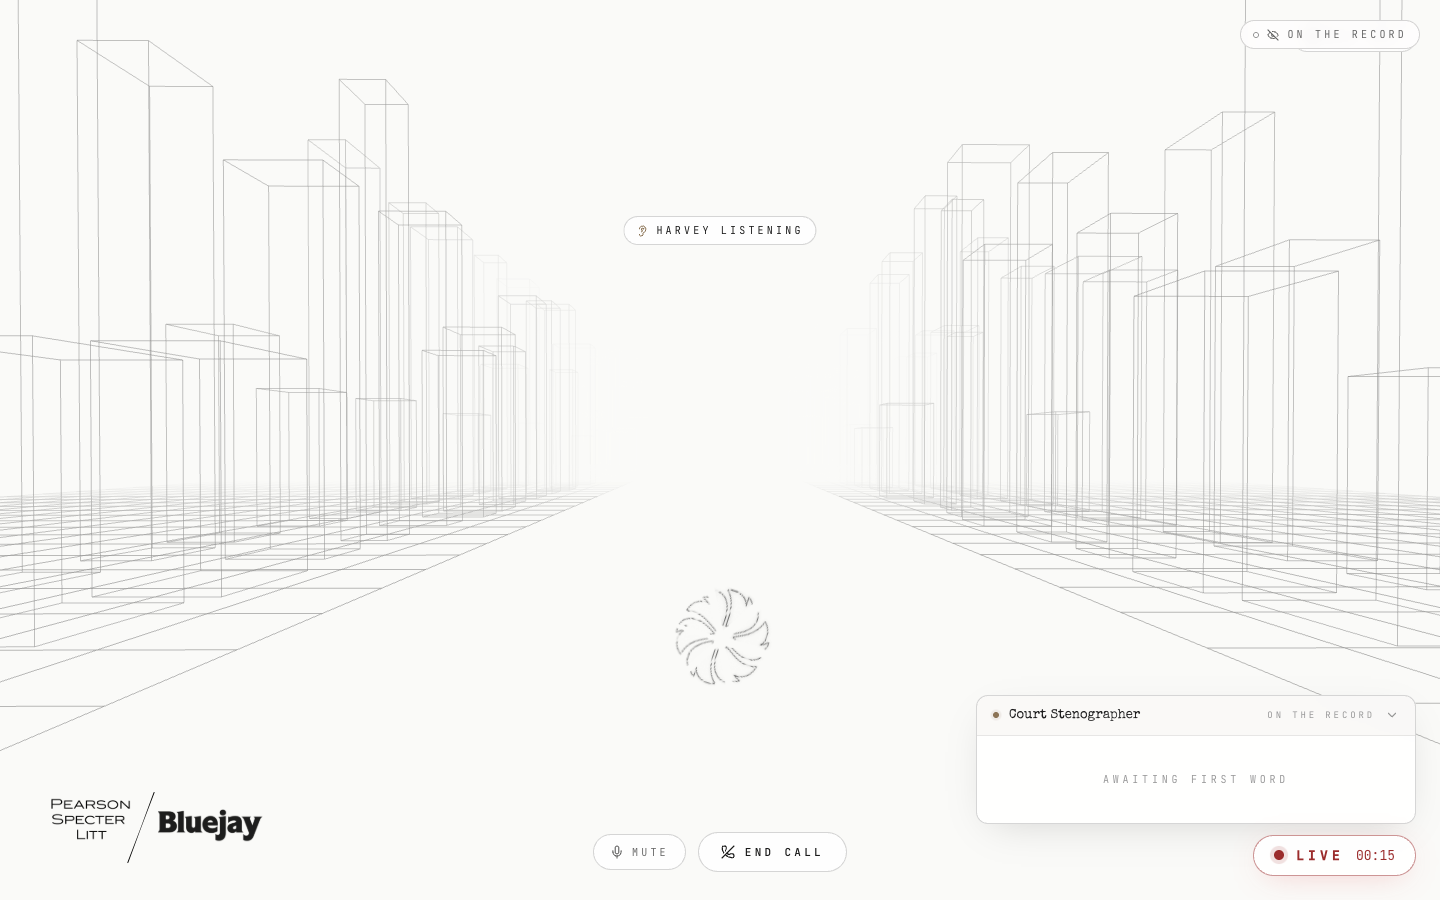
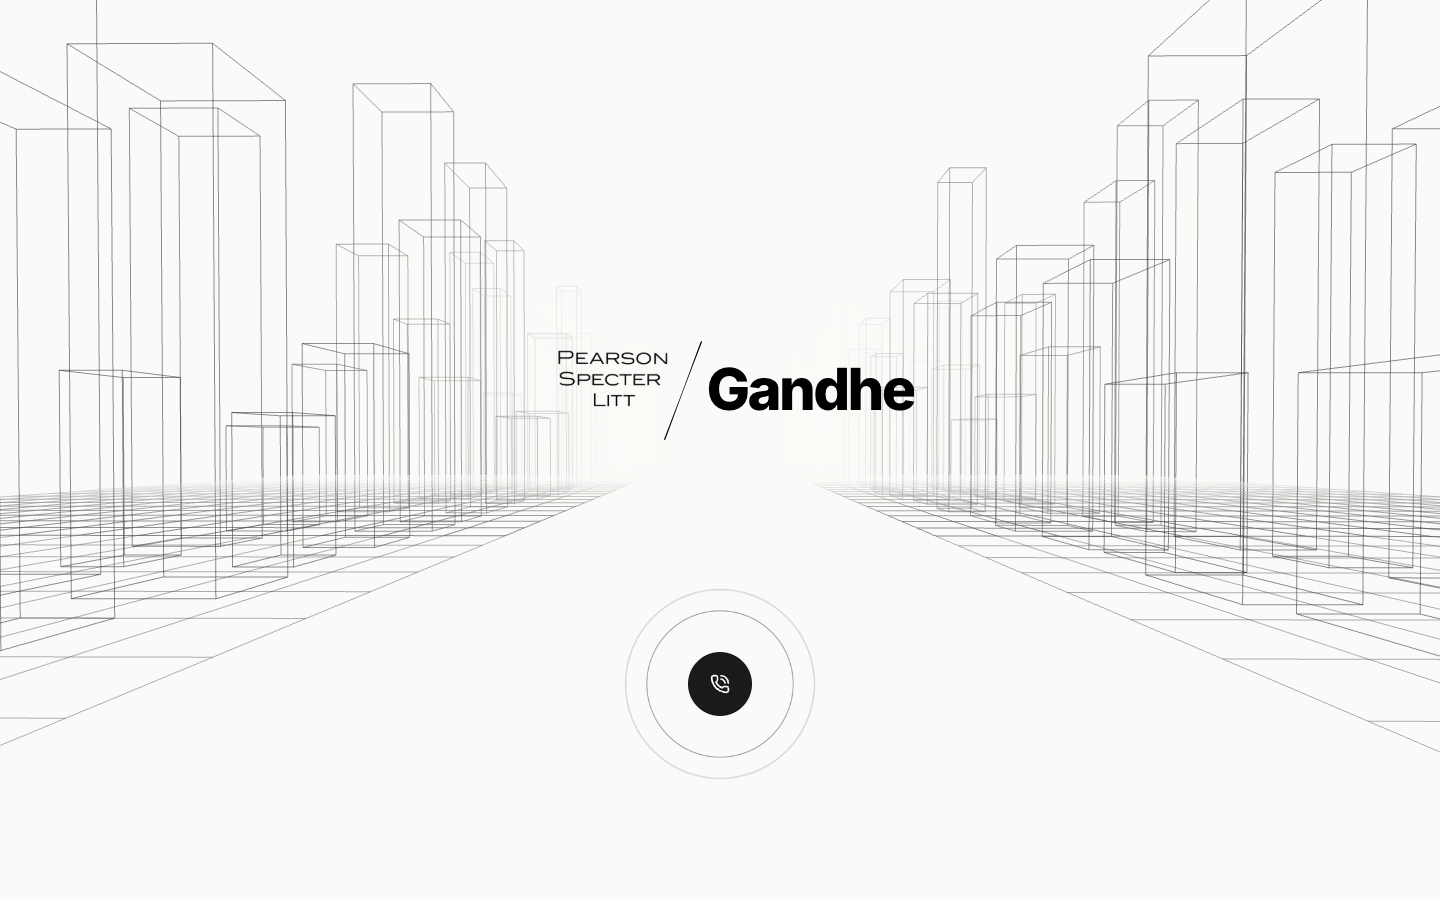
site review fixes: sidebar tracks the last card, shorter fades, no dark-mode flash, zoom and focus rings back, stronger grey text; harvey images without bluejay

diff --git a/src/components/portfolio/CardFeed.tsx b/src/components/portfolio/CardFeed.tsx
@@ -88,6 +88,7 @@ function useGradientCanvases(colors: [string, string, string][]) {
   const refs = useRef<(HTMLCanvasElement | null)[]>([]);
 
   useEffect(() => {
+    if (!refs.current.some(Boolean)) return;
     const renderer = createRenderer();
     if (!renderer) return;
     const still = window.matchMedia('(prefers-reduced-motion: reduce)').matches;
@@ -129,13 +130,20 @@ function useGradientCanvases(colors: [string, string, string][]) {
 
 function useActiveSection(ids: string[]) {
   const [active, setActive] = useState(ids[0]);
+  const frozen = useRef(0);
   useEffect(() => {
     const onScroll = () => {
-      const line = window.innerHeight * 0.38;
+      if (Date.now() < frozen.current) return;
+      const doc = document.documentElement;
+      if (window.innerHeight + window.scrollY >= doc.scrollHeight - 4) { setActive(ids[ids.length - 1]); return; }
+      const line = window.innerHeight * 0.45;
       let current = ids[0];
+      let best = Infinity;
       for (const id of ids) {
-        const el = document.getElementById(id);
-        if (el && el.getBoundingClientRect().top <= line) current = id;
+        const r = document.getElementById(id)?.getBoundingClientRect();
+        if (!r) continue;
+        const d = Math.abs(r.top + r.height / 2 - line);
+        if (d < best) { best = d; current = id; }
       }
       setActive(current);
     };
@@ -144,25 +152,28 @@ function useActiveSection(ids: string[]) {
     window.addEventListener('resize', onScroll);
     return () => { window.removeEventListener('scroll', onScroll); window.removeEventListener('resize', onScroll); };
   }, [ids.join('|')]);
-  return active;
+  const jumpTo = (id: string) => { frozen.current = Date.now() + 900; setActive(id); };
+  return [active, jumpTo] as const;
 }
 
 export default function CardFeed({ items }: { items: FeedItem[] }) {
   const canvases = useGradientCanvases(items.map((f) => f.colors));
-  const active = useActiveSection(items.map((f) => f.id));
+  const [active, jumpTo] = useActiveSection(items.map((f) => f.id));
   const jump = (id: string) => {
+    jumpTo(id);
     document.getElementById(id)?.scrollIntoView({ behavior: 'smooth', block: 'start' });
   };
+  const activeIndex = Math.max(0, items.findIndex((f) => f.id === active));
 
   return (
     <div className="hf-grid">
       <aside className="hf-aside">
         <nav className="hf-toc">
           <ul>
+            <span className="hf-toc-slider" style={{ transform: `translateY(${activeIndex * 32 + 9}px)` }} />
             {items.map((f) => (
               <li key={f.id}>
                 <button className={active === f.id ? 'hf-toc-item hf-toc-on' : 'hf-toc-item'} onClick={() => jump(f.id)}>
-                  <span className="hf-toc-mark" />
                   {f.nav}
                 </button>
               </li>
@@ -209,7 +220,7 @@ export default function CardFeed({ items }: { items: FeedItem[] }) {
         .hf-grid { display: block; }
         .hf-aside, .hf-spacer { display: none; }
         .hf-feed { margin-top: 32px; display: flex; flex-direction: column; gap: 32px; }
-        .hf-anchor { scroll-margin-top: 112px; }
+        .hf-anchor { scroll-margin-top: 144px; }
         .hf-card { position: relative; display: block; width: 100%; aspect-ratio: 16 / 10; border-radius: 0; overflow: hidden; text-decoration: none; background: #000; transform: translateZ(0); }
         .hf-card-art { position: absolute; inset: 0; background-size: cover; }
         .hf-card-art canvas { position: absolute; inset: 0; width: 100%; height: 100%; display: block; opacity: 0; transition: opacity 0.6s ease, transform 0.8s cubic-bezier(0.2, 0.8, 0.2, 1); }
@@ -222,16 +233,14 @@ export default function CardFeed({ items }: { items: FeedItem[] }) {
         .hf-shot-media { aspect-ratio: 16 / 10; border-radius: 0; overflow: hidden; border: 1px solid var(--rule); background: var(--hover); transition: border-color 0.2s; }
         .hf-shot:hover .hf-shot-media { border-color: rgba(0, 0, 0, 0.25); }
         .hf-shot-media img { width: 100%; height: 100%; object-fit: cover; object-position: top center; display: block; transition: transform 0.8s cubic-bezier(0.2, 0.8, 0.2, 1); }
-        .hf-shot:hover .hf-shot-media img { transform: scale(1.025); }
         .hf-shot-caption { padding: 14px 2px 0; }
         .hf-shot-caption h3 { margin: 0; font-size: 14px; line-height: 20px; font-weight: 500; color: var(--ink); }
         .hf-shot-caption p { margin: 2px 0 0; font-size: 14px; line-height: 20px; color: var(--text); }
-        .hf-toc { position: sticky; top: 128px; height: fit-content; width: 180px; }
-        .hf-toc ul { list-style: none; margin: 0; padding: 0; display: flex; flex-direction: column; border-left: 1px solid var(--rule); }
-        .hf-toc-item { position: relative; display: block; width: 100%; padding: 7px 0 7px 16px; text-align: left; font-size: 13px; line-height: 1.375; color: var(--faint); transition: color 0.2s cubic-bezier(0.4, 0, 0.2, 1); }
+        .hf-toc { position: sticky; top: 144px; height: fit-content; width: 180px; }
+        .hf-toc ul { position: relative; list-style: none; margin: 0; padding: 0; display: flex; flex-direction: column; border-left: 1px solid var(--rule); }
+        .hf-toc-slider { position: absolute; left: -1px; top: 0; width: 1px; height: 14px; background: var(--ink); transition: transform 0.28s cubic-bezier(0.32, 0.72, 0, 1); }
+        .hf-toc-item { position: relative; display: block; width: 100%; height: 32px; padding: 0 0 0 16px; text-align: left; font-size: 13px; line-height: 1.375; color: var(--faint); transition: color 0.2s cubic-bezier(0.4, 0, 0.2, 1); }
         .hf-toc-item:hover, .hf-toc-on { color: var(--ink); }
-        .hf-toc-mark { position: absolute; left: -1px; top: 50%; width: 1px; height: 14px; transform: translateY(-50%); border-radius: 1px; background: var(--ink); opacity: 0; transition: opacity 0.2s cubic-bezier(0.4, 0, 0.2, 1); }
-        .hf-toc-on .hf-toc-mark { opacity: 1; }
 
         .hf-enter-late { animation-delay: 80ms; }
 

diff --git a/src/components/portfolio/SiteNav.tsx b/src/components/portfolio/SiteNav.tsx
@@ -44,7 +44,11 @@ export default function SiteNav({ active, crumb, dark, onToggleTheme }: { active
       const a = (e.target as HTMLElement).closest('a');
       if (!a || a.target === '_blank' || a.hasAttribute('download')) return;
       const url = new URL(a.href, location.href);
-      if (url.origin !== location.origin || url.pathname === location.pathname || url.pathname.endsWith('.pdf')) return;
+      if (url.origin !== location.origin || url.pathname.endsWith('.pdf')) return;
+      if (url.pathname === location.pathname) {
+        if (!url.hash) { e.preventDefault(); window.scrollTo({ top: 0, behavior: 'smooth' }); }
+        return;
+      }
       e.preventDefault();
       root?.classList.add('site-leaving');
       window.setTimeout(() => { location.href = url.href; }, 170);
@@ -90,8 +94,8 @@ export default function SiteNav({ active, crumb, dark, onToggleTheme }: { active
           --bg: #ffffff;
           --ink: #1a1a1a;
           --text: rgba(26, 26, 26, 0.6);
-          --faint: rgba(26, 26, 26, 0.3);
-          --half: rgba(26, 26, 26, 0.4);
+          --faint: rgba(26, 26, 26, 0.45);
+          --half: rgba(26, 26, 26, 0.55);
           --rule: rgba(0, 0, 0, 0.08);
           --hover: #fafaf8;
           --strong: #1a1a1a;
@@ -113,14 +117,15 @@ export default function SiteNav({ active, crumb, dark, onToggleTheme }: { active
           --bg: #0e0e0e;
           --ink: #f2f2f0;
           --text: rgba(242, 242, 240, 0.62);
-          --faint: rgba(242, 242, 240, 0.32);
-          --half: rgba(242, 242, 240, 0.42);
+          --faint: rgba(242, 242, 240, 0.46);
+          --half: rgba(242, 242, 240, 0.56);
           --rule: rgba(255, 255, 255, 0.1);
           --hover: #161616;
           --strong: #f2f2f0;
         }
         .site *, .site *::before, .site *::after { box-sizing: border-box; }
         .site ::selection { background: rgba(120, 120, 120, 0.25); }
+        .site :focus-visible { outline: 1px solid var(--ink); outline-offset: 3px; }
         :where(.site) button { font: inherit; color: inherit; background: none; border: none; padding: 0; cursor: pointer; }
 
         .sn-nav {
@@ -153,8 +158,8 @@ export default function SiteNav({ active, crumb, dark, onToggleTheme }: { active
         .sn-link:hover, .sn-link-on { color: var(--ink); }
         .sn-theme { display: inline-flex; align-items: center; color: var(--faint); transition: color 0.2s; }
         .sn-theme:hover { color: var(--ink); }
-        .sn-fade-top { position: fixed; top: 0; left: 0; right: 0; height: 72px; z-index: 10; pointer-events: none; background: linear-gradient(to bottom, var(--bg), transparent); }
-        .sn-fade-bottom { position: fixed; bottom: 0; left: 0; right: 0; height: 120px; z-index: 10; pointer-events: none; background: linear-gradient(to top, var(--bg), transparent); }
+        .sn-fade-top { position: fixed; top: 0; left: 0; right: 0; height: 56px; z-index: 10; pointer-events: none; background: linear-gradient(to bottom, var(--bg), transparent); }
+        .sn-fade-bottom { position: fixed; bottom: 0; left: 0; right: 0; height: 48px; z-index: 10; pointer-events: none; background: linear-gradient(to top, var(--bg), transparent); }
 
         .site-col { margin: 0 auto; width: 100%; max-width: 576px; }
         .site > :not(nav):not(.sn-fade-top):not(.sn-fade-bottom):not(style) { transition: opacity 0.16s ease, transform 0.16s ease; }
@@ -178,7 +183,7 @@ export default function SiteNav({ active, crumb, dark, onToggleTheme }: { active
         @keyframes snCrumb { from { opacity: 0; transform: translateY(-4px); } to { opacity: 1; transform: translateY(0); } }
         @keyframes snDraw { from { transform: scaleX(0); } to { transform: scaleX(1); } }
         @keyframes snDot { from { transform: scale(0); } to { transform: scale(1); } }
-        @media (max-width: 640px) { .site { padding-bottom: 64px; } }
+        @media (max-width: 640px) { .site { padding-bottom: 64px; } .sn-sep, .sn-here { display: none; } }
         @media (prefers-reduced-motion: reduce) { .site-enter, .sn-crumb, .sn-dot { animation: none; } }
       `}</style>
     </>

diff --git a/src/components/portfolio/StoryPage.tsx b/src/components/portfolio/StoryPage.tsx
@@ -34,7 +34,7 @@ export const STORIES: Record<string, Story> = {
       { when: 'august · 157 prs', text: 'the big one. i got handed workspaces mid-flight with the words "i have no context on this, but this has been handed off to me." the job: make every resource in the product live in exactly one workspace, across 8 services and a 34 table migration. it landed on dev three times and got reverted twice. i wrote a test harness that hit 271 write endpoints before it was allowed anywhere near production. the final pr list went out at 5:54 am with the message "may god be with us." it shipped. i also asked who shipped the most code that month, fully expecting it to be me. i came third.' },
       { when: 'september · 60 prs', text: 'fewer prs, more real customers. load tests with thousands of simulated calls, on-call, and the things people actually asked for: a 30 day recently deleted, shareable run pages, cost per user. rebuilt my own command palette from may, because may me was not that good. my ai read a month of my own sessions and wrote a blunt report on how i work, so i wrote hooks that stop my own agents from pushing to main. i also tried to have an ai cover my overnight pages so i could sleep. it handled 0 of 4.' },
       { when: 'october · 55 prs', text: 'new products. bluejay twins: a voice twin that phones a business for you, scaffolded by agents overnight and live two days later. an oauth flow so the product plugs into claude as an mcp server. ci integrations that run simulations from a pull request. a founder read one of my design docs and called it ai slop. he was right. new rule: nothing goes to a founder until i can defend every line of it myself.' },
-      { when: 'november · 70 prs so far', text: 'built an ai incident teammate that lives in slack. it notices something broke, opens a room, hands everyone a plan, investigates, proposes the fix and proves it with a rerun. 43 prs in three days. also turned load testing into something you can book by chatting. and added a hook so production writes are off unless i personally type the magic words. character development.' },
+      { when: 'november · 70 prs so far', text: 'mostly agents that do the boring part of an incident for you, and making load testing something you can set up by chatting. also added a hook so production writes are off unless i personally type the magic words. character development.' },
     ],
   },
   'augmentor-labs': {
